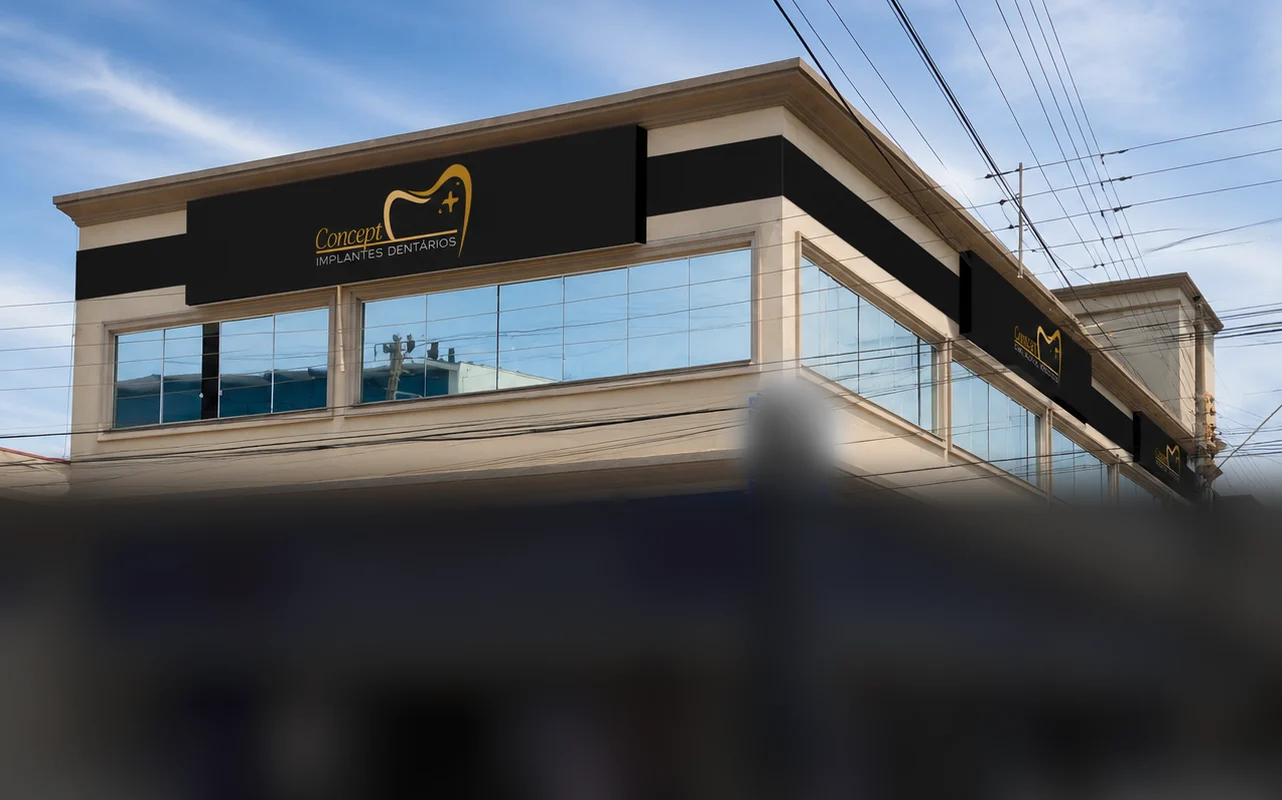
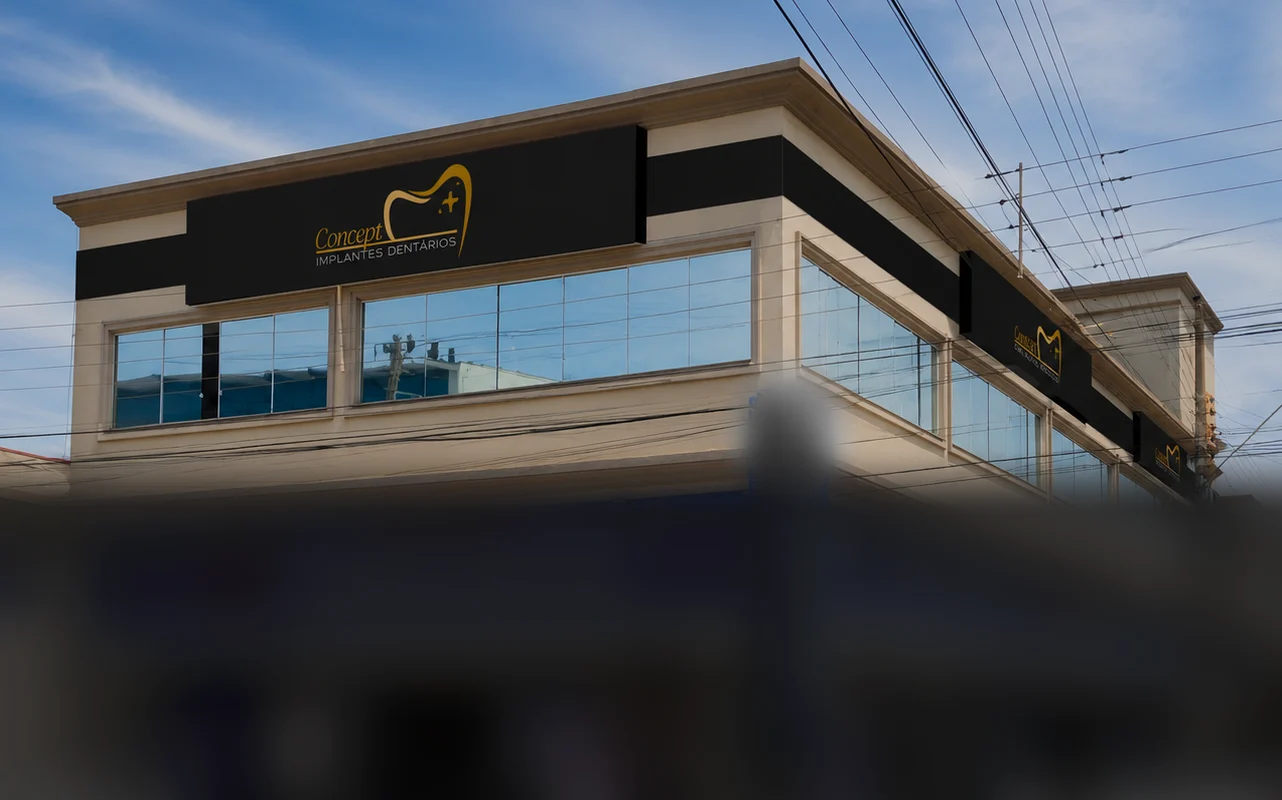
Drop CSS filter on masked hero photo
Filter + mask made Chrome paint a hairline at the layer edge; the
darkening is now baked into fachada.webp, and the entrance fade moves
to a wrapper so the masked layer carries no effects.

Claude-Session: https://claude.ai/code/session_017LpBUkyQAK4DmrhJuSuVA1

diff --git a/src/components/Hero.tsx b/src/components/Hero.tsx
@@ -17,16 +17,18 @@ export default function Hero({ onOpenForm }: { onOpenForm: () => void }) {
           O térreo (farmácia) já vem desfocado e escurecido na própria imagem. */}
       <div
         style={{ animationDelay: "0.3s" }}
-        className="animate-fade hero-photo hidden lg:block absolute inset-y-0 right-0 left-[round(46%,1px)]"
+        className="animate-fade hidden lg:block absolute inset-y-0 right-0 left-[round(46%,1px)]"
       >
-        <Image
-          src="/marca/fachada.webp"
-          alt="Fachada da Concept Implantes Dentários no Centro de Camboriú"
-          fill
-          priority
-          sizes="54vw"
-          className="object-cover object-[0%_30%]"
-        />
+        <div className="hero-photo absolute inset-0">
+          <Image
+            src="/marca/fachada.webp"
+            alt="Fachada da Concept Implantes Dentários no Centro de Camboriú"
+            fill
+            priority
+            sizes="54vw"
+            className="object-cover object-[0%_30%]"
+          />
+        </div>
       </div>
 
       <div className="relative mx-auto max-w-[1200px] w-full px-6 md:px-10 lg:px-16 pt-20 pb-24 lg:pt-24 lg:pb-20">

diff --git a/src/app/globals.css b/src/app/globals.css
@@ -166,9 +166,10 @@ body {
   }
 }
 
-/* Fachada no Hero: some à esquerda (lado do texto) e embaixo (térreo). */
+/* Fachada no Hero: some à esquerda (lado do texto) e embaixo (térreo).
+   Sem `filter` aqui: filtro + máscara faz o Chrome desenhar uma linha fina
+   na borda da camada; o escurecimento já vem na própria imagem. */
 .hero-photo {
-  filter: brightness(0.85);
   -webkit-mask-image:
     linear-gradient(to right, transparent 3%, #000 38%),
     linear-gradient(to bottom, #000 55%, transparent 92%);
